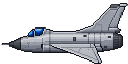
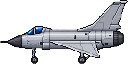
Place wheeled Yak-21 above full-bleed runway tiles

Changed region(s): [[0.0, 0.25, 0.9688, 1.0], [0.7812, 0.0, 1.0, 0.3438]]

diff --git a/HullPlacement.js b/HullPlacement.js
@@ -161,7 +161,7 @@ export async function createHullPlacement(app, hull) {
       update();
       return;
     }
-    if (!valid) { onAlert(selected.category === 'PLANE' ? 'Yak-21は向きと範囲が一致する滑走路に取り付けてください' : ['FUEL', 'AMMO', 'GENERATOR', 'CABIN'].includes(selected.category) ? `${selected.category}は同じ寸法のHULL、または2x2 HULLの半分に完全一致させてください` : selected.category === 'GUN' ? 'GUNは2x2 HULLに完全一致させてください（他装備との重なりも不可）' : selected.category === 'ENGINE' ? 'ENGINEは指定寸法のHULLに位置・向きを完全一致させてください（他パーツとの重なりも不可）' : '他のブロックと重なるため配置できません'); return; }
+    if (!valid) { onAlert(selected.category === 'PLANE' ? 'Yak-21は滑走路の真上1マスに横位置を揃えて配置してください' : ['FUEL', 'AMMO', 'GENERATOR', 'CABIN'].includes(selected.category) ? `${selected.category}は同じ寸法のHULL、または2x2 HULLの半分に完全一致させてください` : selected.category === 'GUN' ? 'GUNは2x2 HULLに完全一致させてください（他装備との重なりも不可）' : selected.category === 'ENGINE' ? 'ENGINEは指定寸法のHULLに位置・向きを完全一致させてください（他パーツとの重なりも不可）' : '他のブロックと重なるため配置できません'); return; }
     const sprite = new Sprite({ texture: textures.get(selected.id) });
     sprite.anchor.set(0.5);
     sprite.width = selected.width * GRID_SIZE;
@@ -188,7 +188,7 @@ export async function createHullPlacement(app, hull) {
     preview, placed, backgroundLayer, armorLayer, engineLayer, fixedEngineLayer, gunLayer, exhaustOverlay, select,
     onAlert(callback) { onAlert = callback; },
     validateSave() {
-      if (placed.some(block => findPart(block.partId).category === 'PLANE' && !planeSupported(block, placed))) throw new Error('滑走路に取り付けられていないYak-21があります');
+      if (placed.some(block => findPart(block.partId).category === 'PLANE' && !planeSupported(block, placed))) throw new Error('滑走路の真上に配置されていないYak-21があります');
       if (placed.some(block => findPart(block.partId).category === 'CABIN' && !fuelSupported(block, placed))) throw new Error('HULLに取り付けられていないCABINがあります。保存できません');
       if (placed.some(block => findPart(block.partId).category === 'GENERATOR' && !fuelSupported(block, placed))) throw new Error('HULLに取り付けられていないGENがあります。保存できません');
       if (placed.some(block => findPart(block.partId).category === 'AMMO' && !fuelSupported(block, placed))) throw new Error('HULLに取り付けられていないAMMOがあります。保存できません');
@@ -244,7 +244,7 @@ export async function createHullPlacement(app, hull) {
       if (blocks.some(block => findPart(block.partId).category === 'AMMO' && !fuelSupported(block, blocks))) throw new Error('保存データのAMMOがHULLに完全に取り付けられていません');
       if (blocks.some(block => findPart(block.partId).category === 'GENERATOR' && !fuelSupported(block, blocks))) throw new Error('保存データのGENがHULLに完全に取り付けられていません');
       if (blocks.some(block => findPart(block.partId).category === 'CABIN' && !fuelSupported(block, blocks))) throw new Error('保存データのCABINがHULLに完全に取り付けられていません');
-      if (blocks.some(block => findPart(block.partId).category === 'PLANE' && !planeSupported(block, blocks))) throw new Error('保存データのYak-21が滑走路に一致していません');
+      if (blocks.some(block => findPart(block.partId).category === 'PLANE' && !planeSupported(block, blocks))) throw new Error('保存データのYak-21が滑走路の真上にありません');
       for (const item of placed) item.sprite.destroy({ children: true });
       placed.length = 0;
       for (const block of blocks) {

diff --git a/PlaneSupport.js b/PlaneSupport.js
@@ -1,22 +1,19 @@
 import { findPart } from './ArmorParts.js';
+import { GRID_SIZE } from './HullParts.js';
 import { polygon, contains } from './HullGeometry.js';
-function dimensions(part, angle) {
-  return angle % 180 === 90 ? [part.height, part.width] : [part.width, part.height];
-}
+
+/** Yak-21は滑走路の真上1マスに、横位置を揃えて隣接する。 */
 export function planeSupported(plane, blocks) {
-  const size = dimensions(findPart(plane.partId), plane.angle);
-  return blocks.some(block => {
-    if (block.partId !== 'runway-2x1') return false;
-    const target = dimensions(findPart(block.partId), block.angle);
-    return Math.abs(plane.x - block.x) < 0.0001 && Math.abs(plane.y - block.y) < 0.0001
-      && size.every((value, i) => value === target[i]);
-  });
+  return plane.angle === 0 && blocks.some(block => block.partId === 'runway-2x1' && block.angle === 0
+    && Math.abs(plane.x - block.x) < 0.0001
+    && Math.abs(plane.y - (block.y - GRID_SIZE)) < 0.0001);
 }
 export function planeMountAt(part, angle, pointer, blocks) {
+  if (angle !== 0) return null;
   for (const block of blocks) {
-    if (block.partId !== 'runway-2x1' || !contains(polygon(findPart(block.partId), block.x, block.y, block.angle), pointer)) continue;
-    const mount = { partId: part.id, x: block.x, y: block.y, angle };
-    if (planeSupported(mount, blocks)) return mount;
+    if (block.partId !== 'runway-2x1' || block.angle !== 0) continue;
+    const mount = { partId: part.id, x: block.x, y: block.y - GRID_SIZE, angle };
+    if (contains(polygon(findPart(part.id), mount.x, mount.y, angle), pointer)) return mount;
   }
   return null;
 }

diff --git a/PlacementRules.js b/PlacementRules.js
@@ -1,7 +1,7 @@
 // 許可されたカテゴリの組み合わせのみ重ね配置できる。
 // HULL/HULL、ARMOR/ARMOR、HULL/ARMOR は現時点では許可しない。
 // 今後合意した組み合わせを ['HULL', 'ENGINE'] のように追加する。
-export const overlapAllowedPairs = [['ENGINE', 'HULL'], ['GUN', 'HULL'], ['FUEL', 'HULL'], ['AMMO', 'HULL'], ['GENERATOR', 'HULL'], ['CABIN', 'HULL'], ['PLANE', 'RUNWAY']];
+export const overlapAllowedPairs = [['ENGINE', 'HULL'], ['GUN', 'HULL'], ['FUEL', 'HULL'], ['AMMO', 'HULL'], ['GENERATOR', 'HULL'], ['CABIN', 'HULL']];
 
 export function canOverlap(categoryA, categoryB) {
   return overlapAllowedPairs.some(([a, b]) =>

diff --git a/doc/design.md b/doc/design.md
@@ -336,11 +336,13 @@
 ### PLANE・滑走路
 
 - PLANEタブにRUNWAY 2x1とYak-21を追加。後続の指定により滑走路とYak-21は共に横2・縦1（128×64px）。1マス64×64px。
-- 滑走路画像を時計回りに90度回転し、右半分コンクリート灰色・白い中心線、左半分黄黒のトラ柄。Yak-21はMiG-21風の銀灰色機体・青いキャノピーの横向き画像。画像を左右反転し、機首は左向き。透過PNGとnearest表示を使う。
+- 横長128×64pxの滑走路画像は上半分コンクリート灰色・白い中心線、下半分黄黒のトラ柄。全画素を不透明にして外周の余白をなくし、隣接時に隙間が出ないようにする。Yak-21はMiG-21風の銀灰色機体・青いキャノピーの横向き画像。機首は左向き。下側に着陸脚と車輪を描き、車輪下端を画像下端に合わせる。Yak-21は透過PNG、両画像はnearest表示を使う。
 - 滑走路は独立ブロックとしてグリッド配置する。HULLとの重なりは禁止する。SAVE時は他パーツ同様BRIDGEへの辺接続を要求する。
-- Yak-21は単一滑走路に中心・回転後の占有範囲を完全一致させる。正位置の横長Yak-21は正位置の横長滑走路へ置く。ポインターが滑走路内なら中心へスナップする。
-- 滑走路/Yak-21だけ重なりを許可。HULLとの重なりは滑走路・Yak-21とも禁止。その他装備との重なり、滑走路同士、飛行機同士は禁止。Yak-21は滑走路の手前に表示し、持ち直し・DELではYak-21を優先する。
-- 両方とも角度0固定でRによる回転不可。プレビュー、DEL、持ち直し、SAVE/LOADに対応する。回転した旧保存データはLOADを拒否する。Yak-21の滑走路支持条件は配置・SAVE・LOADで検証。滑走路を取り外した場合は再取付まで保存不可。
+- Yak-21は滑走路の真上1マスに隣接して配置する。中心Xを滑走路と一致、中心Yを滑走路中心より64px上にする。上側の配置領域でポインターを取付位置にスナップする。車輪の下端が滑走路の上端に接する。
+- 滑走路/Yak-21も含め、両ブロックの他パーツとの重なりは禁止。その他装備との重なり、滑走路同士、飛行機同士は禁止。Yak-21は装備レイヤーで表示する。
+- 両方とも角度0固定でRによる回転不可。プレビュー、DEL、持ち直し、SAVE/LOADに対応する。回転した旧保存データはLOADを拒否する。Yak-21の滑走路隣接条件は配置・SAVE・LOADで検証。滑走路を取り外した場合は再取付まで保存不可。
 - 仮MASSは各2、人口消費は既存面積ルールで各20。飛行、発艦、着艦、武装、燃料消費と電力消費は未実装・未決定。
 
 - 旧仕様のHULLに重なる滑走路の保存データは新ルールに適合しないためLOADを拒否し、保存データを保持する。
+
+- 旧仕様の滑走路に重なるYak-21の保存データは新配置条件に適合しないためLOADを拒否し、元の保存データは保持する。
